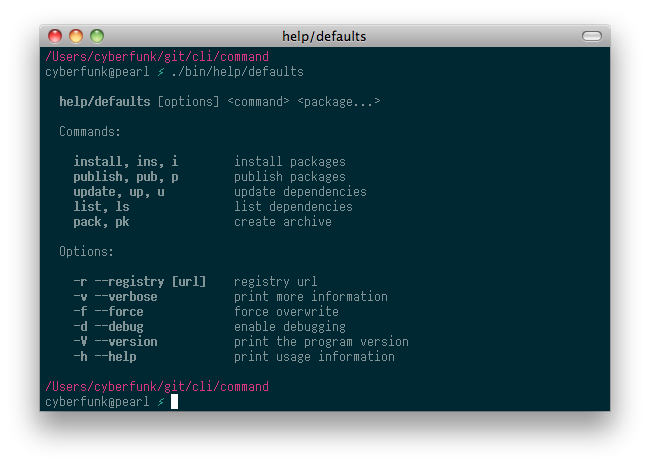
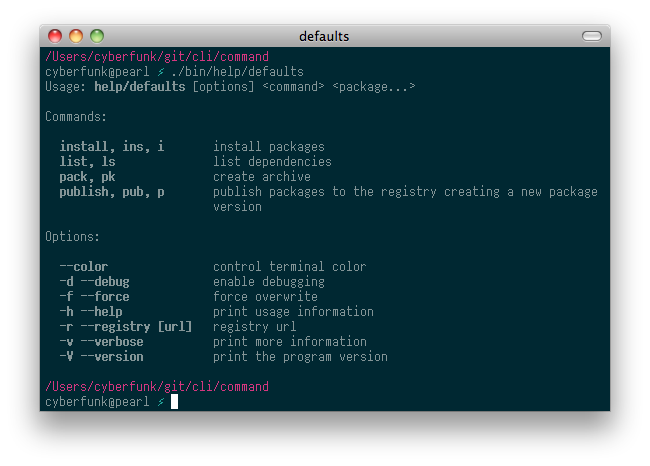
Omit description from default help output.
But force inclusion when creating man pages with help2man.

diff --git a/lib/help/index.js b/lib/help/index.js
@@ -25,7 +25,7 @@ function section(target, title) {
     console.log();
     console.log(title);
   }
-  //console.log();
+  console.log();
 
   var keys = Object.keys(target);
   var col = (conf.help && conf.help.column) ? conf.help.column : 80;
@@ -56,10 +56,7 @@ function section(target, title) {
 }
 
 function head() {
-  if(this.description()) {
-    console.log(this.description());
-  }
-  console.log();
+  //console.log();
 }
 
 function usage() {
@@ -81,6 +78,12 @@ function usage() {
   }else{
     console.log(title + '%s ' + parts.join(' '), this.name());
   }
+  var desc = !conf.help || conf.help.description !== false
+    || process.env.CLI_TOOLKIT_HELP_MAN;
+  if(desc && this.description()) {
+    console.log();
+    console.log(this.description());
+  }
 }
 
 function title(key) {
@@ -99,9 +102,6 @@ function title(key) {
 function commands() {
   var cmds = Object.keys(this._commands);
   if(!cmds.length) return;
-  console.log();
-  console.log(titles[OPTIONS]);
-  titles[OPTIONS] = 'Arguments:';
   section.call(this, this._commands, title.call(this, COMMANDS));
 }
 

diff --git a/index.js b/index.js
@@ -29,7 +29,8 @@ var defaults = {
     vanilla: false,
     sort: true,
     column: 80,
-    title: true
+    title: true,
+    description: false
   },
   trace: undefined,
   unknown: true,

diff --git a/README.md b/README.md
@@ -156,7 +156,9 @@ See the [version/defaults][version/defaults] and [version/custom][version/custom
 
 Source: [version/defaults][version/defaults] and [version/custom][version/custom]
 
-# Types
+## Manual
+
+## Types
 
 A flexible, extensible and intuitive type system allows coercion between the argument string values and javascript types.
 
